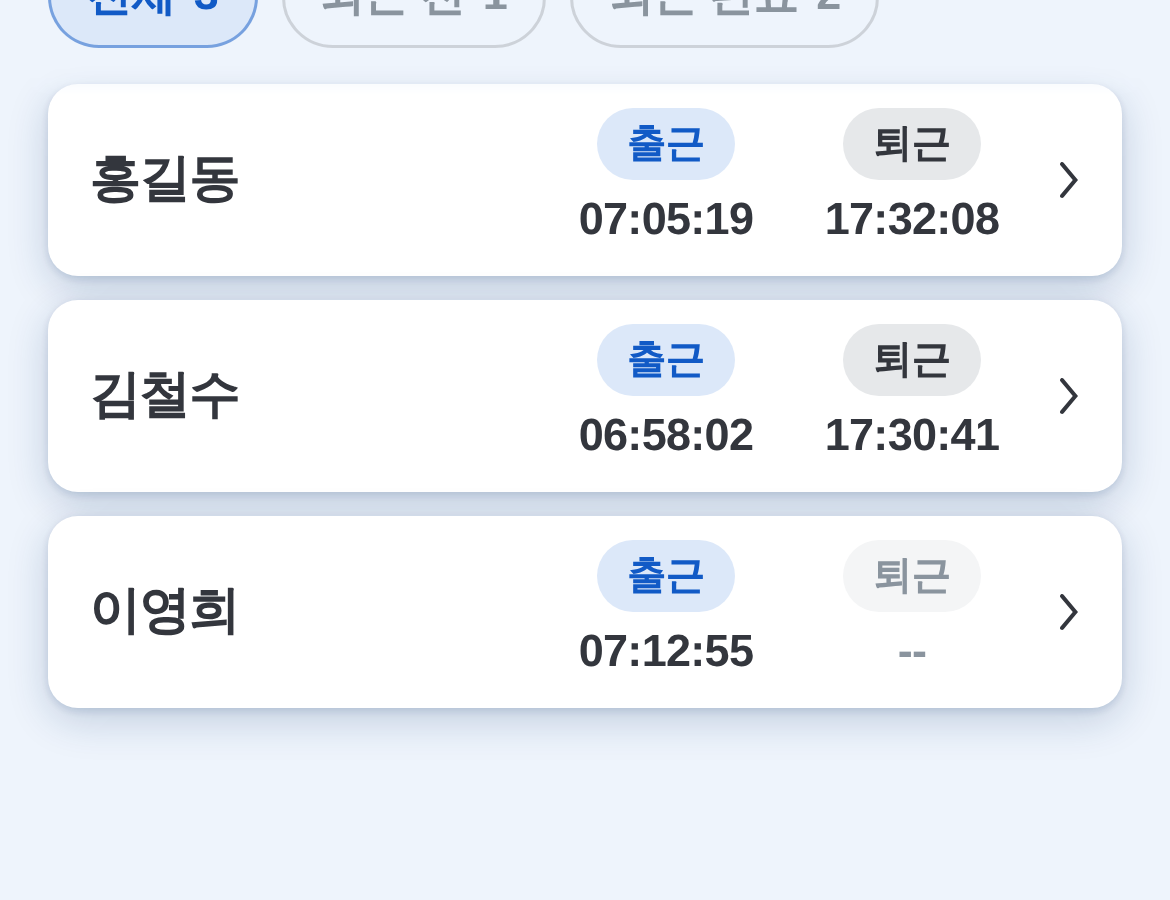
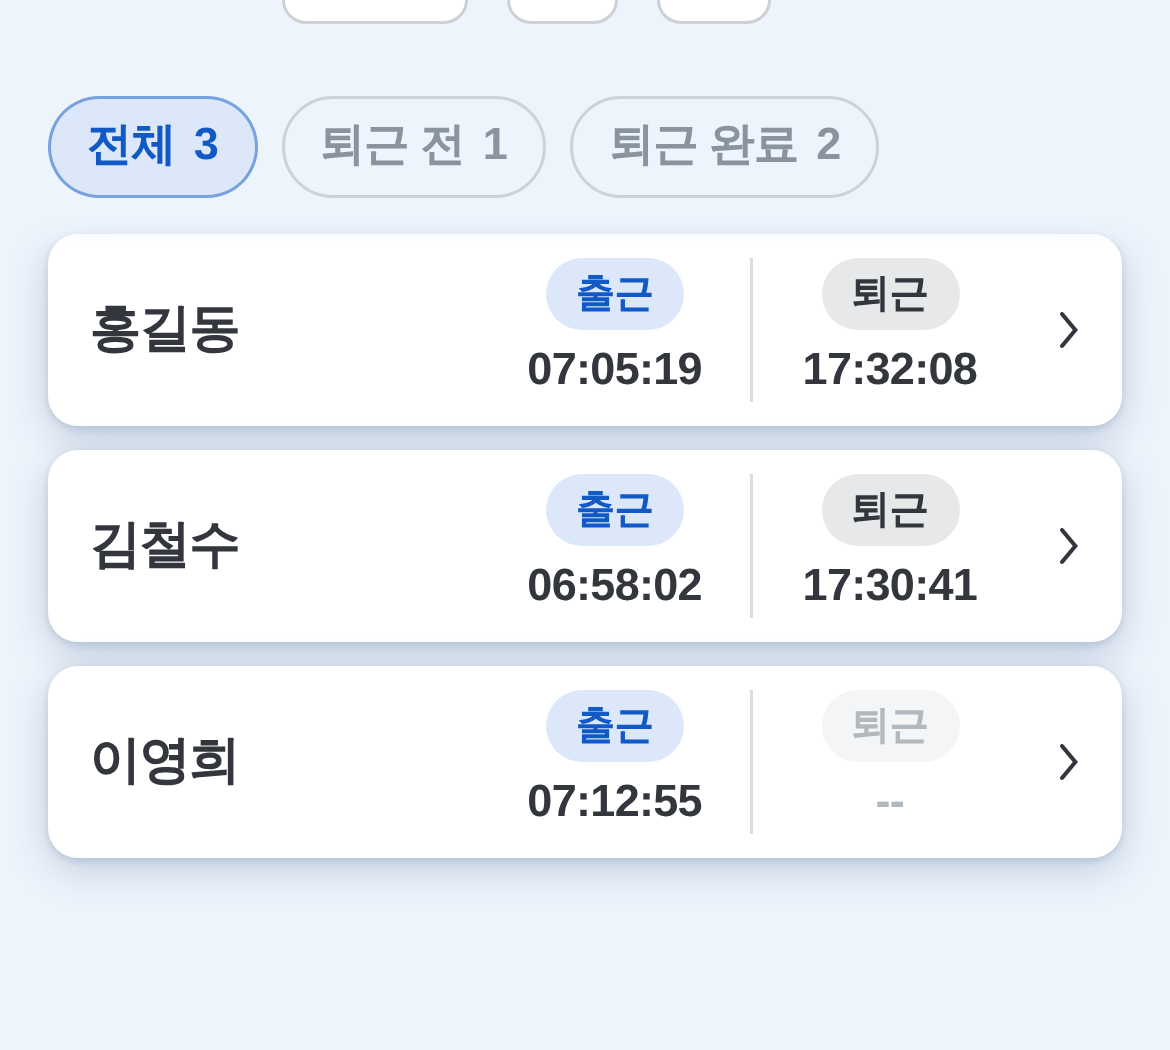
이력 줄에 가운데 선을 긋고, 꺼진 퇴근을 한 단 더 죽인다
**가운데 선** — 출근과 퇴근을 한 덩어리(.log__rec)로 묶고 그 사이에
선을 긋는다. 묶지 않고 줄의 gap(6)을 끼고 나란히 두면 선이 왼쪽
영역에서 18, 오른쪽에서 12 떨어져 한쪽으로 쏠린다. 묶으면 양쪽 모두
12 다.

**시각 칸의 너비를 못 박는다**(8ch). '--' 가 시각보다 좁아 그대로 두면
영역이 줄어, 선이 줄마다 다른 자리에 섰다 — 세로로 훑는 눈이 그 흔들림을
먼저 본다. 실측으로 세 줄의 선이 모두 250 이고, 영역 폭도 91/92 로 같다.

**꺼진 퇴근의 글을 g30 으로 내린다**(#b1b8be). disabled 토큰(#8a949e)은
옅은 회색 면 위에서도 또렷해, 찍힌 퇴근과 한눈에 갈리지 않았다.

화면설명: `@{.log__p--in}` 에 '사이를 선으로 나눕니다' 를 보탠다(규칙 1 —
달리 놓일 수 있었던 자리다).

화면 42 · JS 탈 0. 앵커 119 · 탈 0. `?v=704`.

Claude-Session: https://claude.ai/code/session_01Mo5aPUH3u6bJkjNTNVj2HG

diff --git a/face-attendance-app.html b/face-attendance-app.html
@@ -13,12 +13,12 @@
      그동안 이 HTML 만 새로 받고 CSS 는 옛것이 남으면 화면이 반만 바뀐다 —
      고친 것이 안 보인다는 말이 거기서 나온다. **CSS·JS 를 고치면 이 수를
      함께 올린다.** -->
-<link rel="stylesheet" href="assets/face-attendance-app.css?v=703">
+<link rel="stylesheet" href="assets/face-attendance-app.css?v=704">
 <!-- ⚠ defer 가 없다. 화면 밖에 남는 띠의 색을 기기가 **첫 그림에서 한 번**
      집어 가므로, 그 색을 정하는 일이 문서가 그려지기 전에 끝나야 한다
      (assets/face-attendance-app.js 의 edge). 나머지 일은 그 안에서
      DOMContentLoaded 를 기다린다 -->
-<script src="assets/face-attendance-app.js?v=703"></script>
+<script src="assets/face-attendance-app.js?v=704"></script>
 </head>
 
 <body>
@@ -3708,9 +3708,9 @@
          아직 안 찍힌 쪽은 시각이 '--' 이고 뱃지가 꺼진 꼴이다 — 비워 두면
          자리가 무너져 아래 줄의 퇴근과 세로로 어긋난다 -->
     <div class="list">
-      <button class="log" type="button"><span class="log__nm">홍길동</span><span class="log__p log__p--in"><span class="log__t log__t--in">출근</span><span class="log__tm">07:05:19</span></span><span class="log__p log__p--out"><span class="log__t log__t--out">퇴근</span><span class="log__tm">17:32:08</span></span><svg class="ic ic--16 log__go" aria-hidden="true"><use href="#icon-chevron-right"></use></svg></button>
-      <button class="log" type="button"><span class="log__nm">김철수</span><span class="log__p log__p--in"><span class="log__t log__t--in">출근</span><span class="log__tm">06:58:02</span></span><span class="log__p log__p--out"><span class="log__t log__t--out">퇴근</span><span class="log__tm">17:30:41</span></span><svg class="ic ic--16 log__go" aria-hidden="true"><use href="#icon-chevron-right"></use></svg></button>
-      <button class="log" type="button"><span class="log__nm">이영희</span><span class="log__p log__p--in"><span class="log__t log__t--in">출근</span><span class="log__tm">07:12:55</span></span><span class="log__p log__p--out log__p--off"><span class="log__t log__t--out">퇴근</span><span class="log__tm">--</span></span><svg class="ic ic--16 log__go" aria-hidden="true"><use href="#icon-chevron-right"></use></svg></button>
+      <button class="log" type="button"><span class="log__nm">홍길동</span><span class="log__rec"><span class="log__p log__p--in"><span class="log__t log__t--in">출근</span><span class="log__tm">07:05:19</span></span><span class="log__p log__p--out"><span class="log__t log__t--out">퇴근</span><span class="log__tm">17:32:08</span></span></span><svg class="ic ic--16 log__go" aria-hidden="true"><use href="#icon-chevron-right"></use></svg></button>
+      <button class="log" type="button"><span class="log__nm">김철수</span><span class="log__rec"><span class="log__p log__p--in"><span class="log__t log__t--in">출근</span><span class="log__tm">06:58:02</span></span><span class="log__p log__p--out"><span class="log__t log__t--out">퇴근</span><span class="log__tm">17:30:41</span></span></span><svg class="ic ic--16 log__go" aria-hidden="true"><use href="#icon-chevron-right"></use></svg></button>
+      <button class="log" type="button"><span class="log__nm">이영희</span><span class="log__rec"><span class="log__p log__p--in"><span class="log__t log__t--in">출근</span><span class="log__tm">07:12:55</span></span><span class="log__p log__p--out log__p--off"><span class="log__t log__t--out">퇴근</span><span class="log__tm">--</span></span></span><svg class="ic ic--16 log__go" aria-hidden="true"><use href="#icon-chevron-right"></use></svg></button>
     </div>
   </main>
 </section>

diff --git a/assets/face-attendance-app.css b/assets/face-attendance-app.css
@@ -2917,12 +2917,19 @@ html.is-app,html.is-app body{overflow:hidden;overscroll-behavior:none}
 .log__t--in{background:var(--ap-badge-positive);color:var(--ap-primary)}
 .log__t--out{background:var(--ap-badge-normal);color:var(--ap-text)}
 /* 출근과 퇴근은 **각자의 영역**이다. 뱃지가 위, 시각이 아래로 쌓인다 —
-   한 줄에 눕히면 390 에서 이름과 꺾쇠까지 넣고 나면 시각이 잘린다(실측) */
+   한 줄에 눕히면 390 에서 이름과 꺾쇠까지 넣고 나면 시각이 잘린다(실측).
+   둘을 한 덩어리로 묶는 것은 **사이의 선** 때문이다. 줄의 gap(6)을 끼고
+   나란히 두면 선이 왼쪽 영역에서 18, 오른쪽에서 12 떨어져 한쪽으로
+   쏠린다 — 묶어 두면 양쪽 모두 12 다 */
+.log__rec{flex:none;display:flex}
 .log__p{flex:none;display:inline-flex;flex-direction:column;align-items:center;
-  gap:var(--ap-p2);min-width:76px}
-/* 아직 안 찍힌 쪽 — 뱃지와 시각이 함께 꺼진다. 자리는 그대로 잡아 둔다 */
-.log__p--off .log__t{background:var(--ap-g5);color:var(--ap-text-disabled)}
-.log__p--off .log__tm{color:var(--ap-text-disabled)}
+  gap:var(--ap-p2);min-width:76px;padding-inline:var(--ap-p5)}
+.log__p--out{border-left:1px solid var(--ap-line)}
+/* 아직 안 찍힌 쪽 — 뱃지와 시각이 함께 꺼진다. 자리는 그대로 잡아 둔다.
+   글은 disabled(#8a949e)보다 한 단 더 죽인다 — 옅은 회색 면 위에서는 그
+   값도 또렷해, 찍힌 퇴근과 한눈에 갈리지 않았다 */
+.log__p--off .log__t{background:var(--ap-g5);color:var(--ap-g30)}
+.log__p--off .log__tm{color:var(--ap-g30)}
 .log__nm{font:var(--t-head);letter-spacing:var(--ls-head);flex:1;min-width:0;
   margin-left:var(--ap-p2);color:var(--ap-text);
   overflow:hidden;text-overflow:ellipsis;white-space:nowrap}
@@ -2934,7 +2941,11 @@ html.is-app,html.is-app body{overflow:hidden;overscroll-behavior:none}
    것이 이름이기 때문이다 — 같은 크기로 올리면 둘이 다투고, 긴 이름이
    접히는 줄에서는 시각이 더 커 보인다 */
 .log__tm{font:var(--t-sub-em);letter-spacing:var(--ls-sub);flex:none;
-  color:var(--ap-text);font-variant-numeric:tabular-nums}
+  color:var(--ap-text);font-variant-numeric:tabular-nums;
+  /* 여덟 자리(00:00:00)만큼 **자리를 잡아 둔다**. '--' 가 시각보다 좁아
+     그대로 두면 영역이 줄어들고, 사이의 선이 줄마다 다른 자리에 선다 —
+     세로로 훑는 눈이 그 흔들림을 먼저 본다 */
+  min-width:8ch;text-align:center}
 
 /* ── 오늘의 출근·퇴근 — 좌우로 선 두 카드 ── */
 /* 출근과 퇴근은 따로 선 기록이다. 한 카드에 두 줄로 쌓아 두면 한 값의

diff --git a/face-attendance-app-prototype.html b/face-attendance-app-prototype.html
@@ -361,7 +361,7 @@
           |@{.cnt} 전체·퇴근 전·퇴근 완료를 따로 세어 적고, 클릭하면 그쪽만 남습니다. 켜지는 것은 늘 하나이고, 모두 보려면 '전체' 로 돌아옵니다. 가르는 축이 퇴근 하나인 것은 출근 없이 퇴근만 있는 줄이 없기 때문입니다.
           |@{.log} 한 사람이 한 줄입니다. 줄 하나가 통째로 클릭 영역이며, 클릭하면 이력 조회가 열립니다.
           |@{.log__nm} 이름이 맨 앞에 섭니다.
-          |@{.log__p--in} 출근과 퇴근은 각자의 영역으로 이름 뒤에 나란히 섭니다. 뱃지 아래에 그 시각이 붙습니다.
+          |@{.log__p--in} 출근과 퇴근은 각자의 영역으로 이름 뒤에 나란히 서며, 사이를 선으로 나눕니다. 뱃지 아래에 그 시각이 붙습니다.
           |@{.log__p--off} 아직 찍지 않은 쪽은 시각이 '--' 이고 뱃지가 비활성화 상태로 보입니다. 자리는 그대로 잡아 두어 아래 줄과 세로로 맞습니다.
           |@md @lg @{.list} 이력 줄도 폭이 넓어지는 만큼 단으로 나뉩니다 — 태블릿은 두 단, 데스크톱은 세 단입니다">날짜별 이력</button>
       <button class="proto-nav-btn proto-nav-sub" type="button" data-scenario="m-cal"

diff --git a/face-attendance-worker.html b/face-attendance-worker.html
@@ -44,12 +44,12 @@
      그동안 이 HTML 만 새로 받고 CSS 는 옛것이 남으면 화면이 반만 바뀐다 —
      고친 것이 안 보인다는 말이 거기서 나온다. **CSS·JS 를 고치면 이 수를
      함께 올린다.** -->
-<link rel="stylesheet" href="assets/face-attendance-app.css?v=703">
+<link rel="stylesheet" href="assets/face-attendance-app.css?v=704">
 <!-- ⚠ defer 가 없다. 화면 밖에 남는 띠의 색을 기기가 **첫 그림에서 한 번**
      집어 가므로, 그 색을 정하는 일이 문서가 그려지기 전에 끝나야 한다
      (assets/face-attendance-app.js 의 edge). 나머지 일은 그 안에서
      DOMContentLoaded 를 기다린다 -->
-<script src="assets/face-attendance-app.js?v=703"></script>
+<script src="assets/face-attendance-app.js?v=704"></script>
 </head>
 
 <body>
